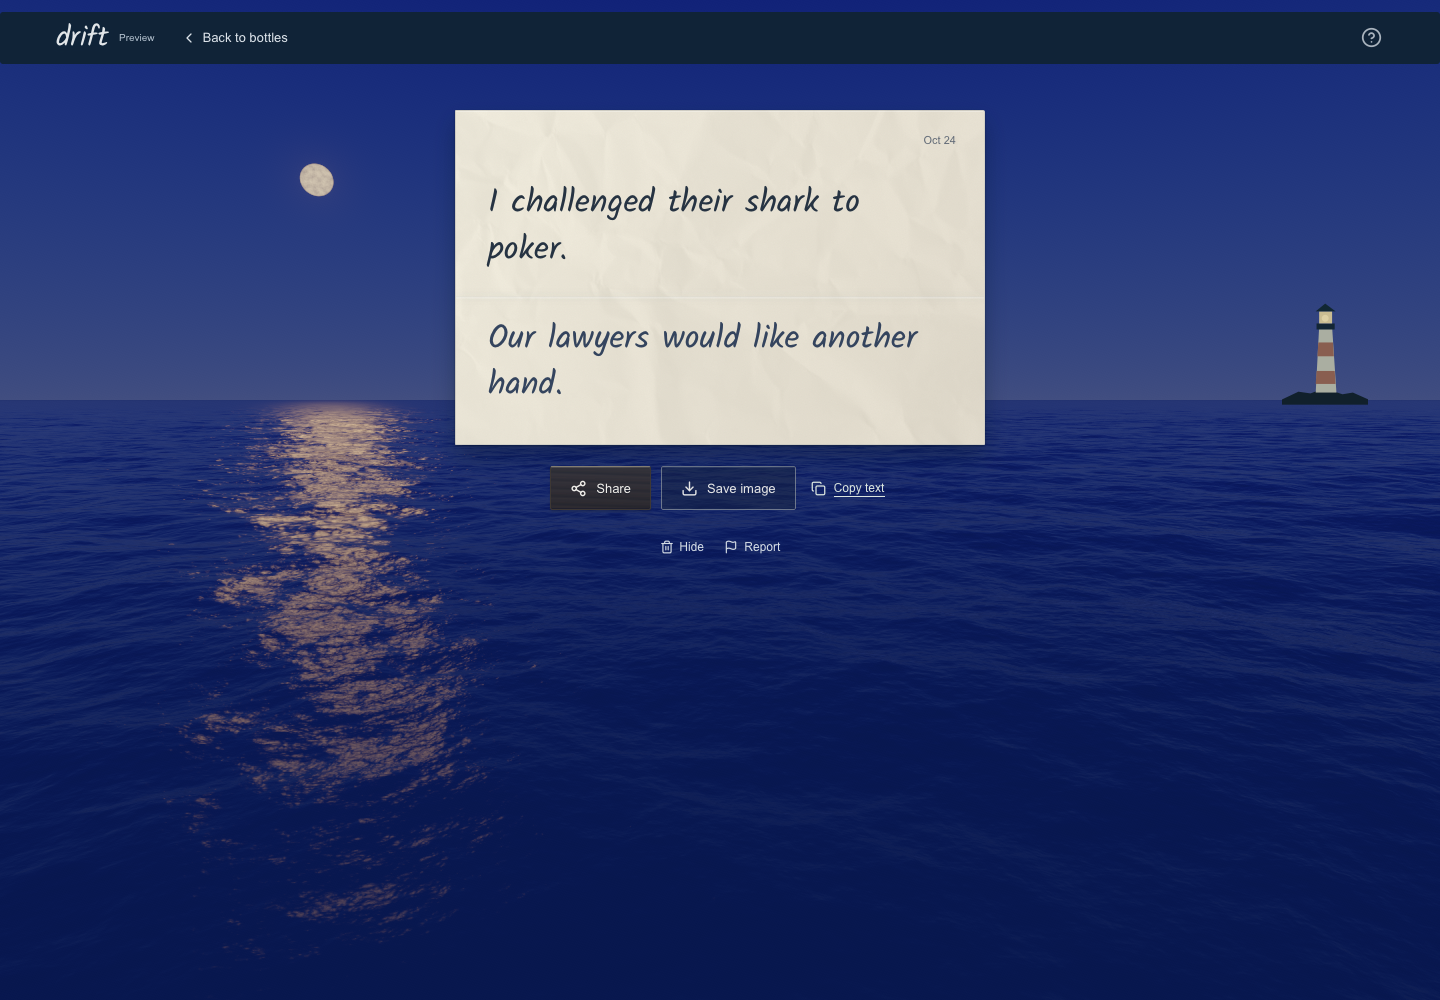
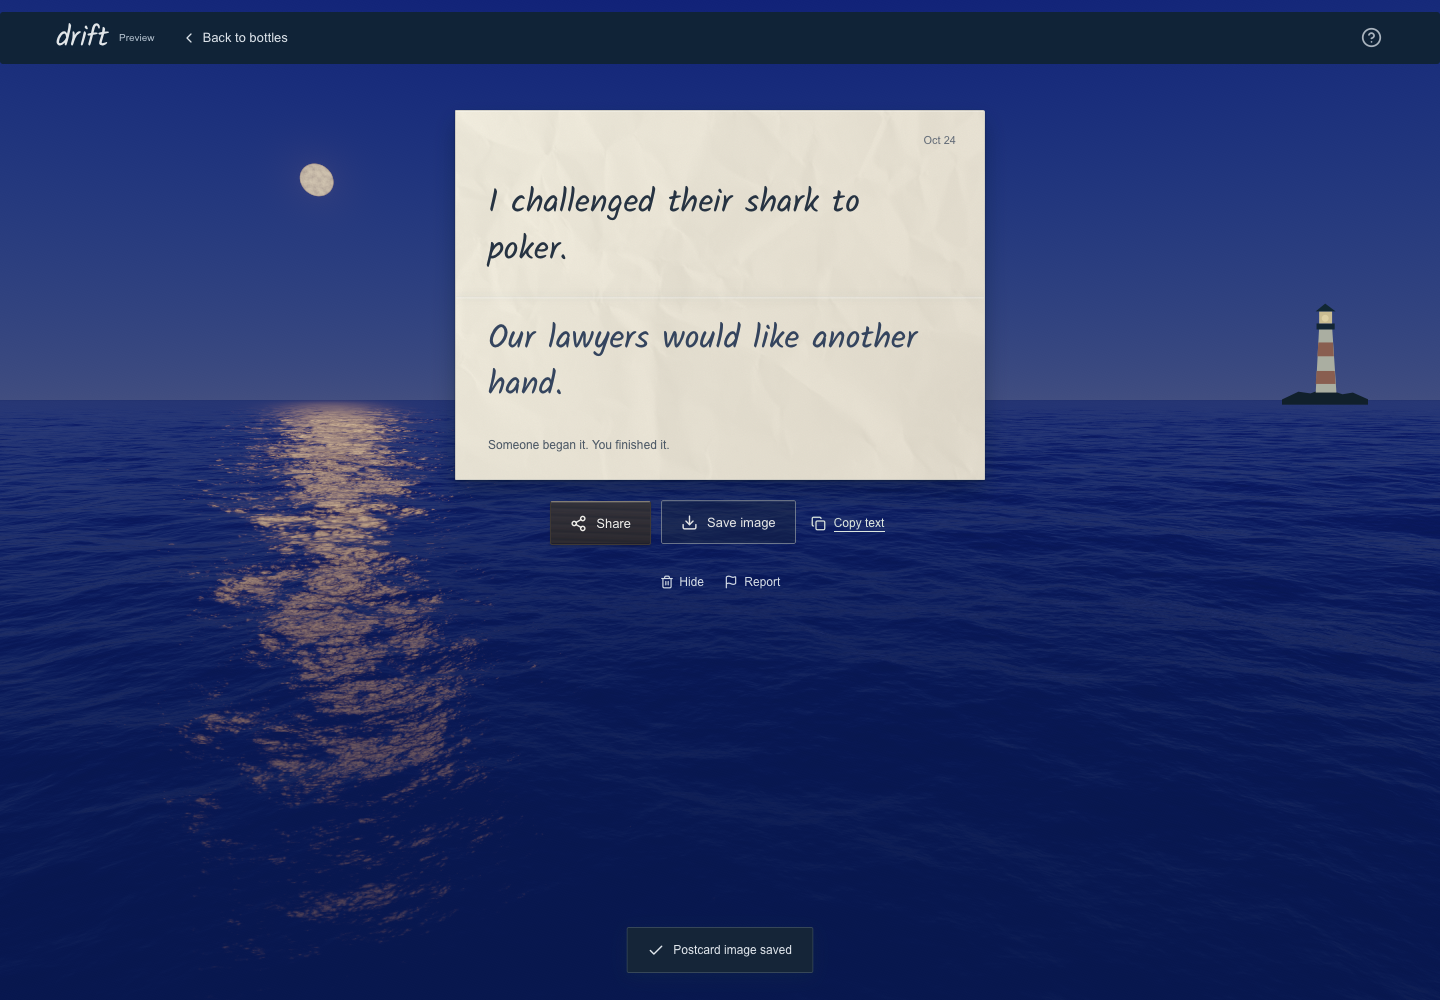
Clarify both writers contributions on notes and exports

Changed region(s): [[0.3125, 0.434, 0.6875, 0.589], [0.4688, 0.93, 0.5312, 0.961]]

diff --git a/apps/web/src/main.tsx b/apps/web/src/main.tsx
@@ -33,6 +33,7 @@ import { savePng, shareCard, cardText, copyText } from './export';
 import './style.css';
 import { HelloPanel } from './HelloPanel';
 import { friendlyError } from './errors';
+import { contribution } from './contribution';
 import { Shore } from './Shore';
 import { Ocean } from './Ocean';
 import { PaperNote } from './PaperNote';
@@ -107,7 +108,7 @@ function Bottle({ small = false }: { small?: boolean }) {
     </svg>
   );
 }
-function Postcard({ card }: { card: Card }) {
+function Postcard({ card, role = 'public' }: { card: Card; role?: string }) {
   return (
     <article className="postcard" aria-label="Your completed postcard" data-card-id={card.id}>
       <time className="letter-date" dateTime={new Date(card.createdMs).toISOString()}>
@@ -128,6 +129,7 @@ function Postcard({ card }: { card: Card }) {
       <div className="card-half">
         <p>{card.reply}</p>
       </div>
+      <p className="contribution-note">{contribution(card, role)}</p>
     </article>
   );
 }
@@ -808,6 +810,7 @@ function App() {
                               <Sparkles size={12} /> AI hint
                             </span>
                             <p>{active.hint}</p>
+                            <small>Your ending is still yours.</small>
                           </aside>
                         )}
                       </div>
@@ -1024,7 +1027,7 @@ function App() {
               {card && (
                 <div className="reveal-art">
                   <PaperNote key={card.id} postcard onOpen={recordOpen}>
-                    <Postcard card={card} />
+                    <Postcard card={card} role={ownership?.role} />
                   </PaperNote>
                 </div>
               )}
@@ -1079,7 +1082,12 @@ function App() {
                         key={pair.id}
                         onClick={() => showCard(pair.id)}
                       >
-                        <Postcard card={pair} />
+                        <Postcard
+                          card={pair}
+                          role={
+                            s.ownership.find((item) => item.id === pair.id && !item.hidden)?.role
+                          }
+                        />
                       </button>
                     ))}
                   </div>

diff --git a/apps/web/src/export.ts b/apps/web/src/export.ts
@@ -1,4 +1,5 @@
 import type { Card } from '../../../packages/game-rules/index';
+import { contribution } from './contribution';
 const provenance = (card: Card) =>
   card.seeded
     ? card.starterKind === 'team'
@@ -109,8 +110,15 @@ export async function postcardPng(card: Card): Promise<Blob> {
     100,
   );
   c.textAlign = 'left';
-  if (provenance(card)) c.fillText(provenance(card), 100, 1220);
+  c.fillText(contribution(card), 100, 1220);
   c.fillText(location.host, 100, 1270);
+  c.font = '400 16px Arial, sans-serif';
+  c.fillText(
+    'Paper photo: D Sharon Pruitt · CC BY 2.0 · ' + location.host + '/credits.html',
+    100,
+    1310,
+    880,
+  );
   return new Promise((resolve, reject) =>
     canvas.toBlob(
       (blob) =>

diff --git a/apps/web/src/contribution.ts b/apps/web/src/contribution.ts
@@ -1,0 +1,14 @@
+import type { Card } from '../../../packages/game-rules/index';
+
+// A bookmark is public; only the private author view can identify this writer's contribution.
+export function contribution(card: Card, role = 'public') {
+  if (card.seeded) {
+    const source = card.starterKind === 'team' ? 'team' : 'sample';
+    return role === 'reply'
+      ? `You finished a ${source} beginning.`
+      : `${source === 'team' ? 'Team' : 'Sample'} beginning. A writer’s ending.`;
+  }
+  if (role === 'reply') return 'Someone began it. You finished it.';
+  if (role === 'setup') return 'You began it. Someone finished it.';
+  return 'Two writers. One little story.';
+}

diff --git a/apps/web/src/natural.css b/apps/web/src/natural.css
@@ -765,3 +765,20 @@ input:focus-visible {
 .sea-world {
   display: flow-root;
 }
+
+/* The paper records the two contributions, while creative words keep their own space. */
+.sea-world .postcard .contribution-note {
+  margin: 5px 32px 12px;
+  color: #4d5966;
+  font: 400 12px/1.5 var(--letter-ui);
+}
+.sea-world .collection-card .contribution-note {
+  margin-inline: 23px;
+  font-size: 11px;
+}
+.sea-world .nudge small {
+  display: block;
+  margin-top: 8px;
+  color: #4d5966;
+  font-size: 11px;
+}

diff --git a/docs/past-winner-product-review.md b/docs/past-winner-product-review.md
@@ -1,0 +1,23 @@
+# Product changes informed by past Cal Hacks winners
+
+Reviewed October 24, 2026. This is a small, deliberately selected set of public project pages, not a comparison of all entrants. Winner badges establish the listed awards; feature descriptions are the teams' own reports. We have not independently run their products, watched all their videos, or established what caused the judges' decisions. These examples cannot produce a calibrated win probability or justify treating categories as independent chances.
+
+| Project and verified award | Reported feature worth studying | Inference for Drift |
+| --- | --- | --- |
+| [FaceTimeOS](https://devpost.com/software/facetime-macos-ai-agent), Cal Hacks 12 first overall | A familiar call/text action starts computer work, then a screenshot confirms the result. | Make the returned shared note the visible payoff. Preserve the real-time notice and demonstrate the same beginning receiving two separate endings. |
+| [Ted.AI](https://devpost.com/software/ted-ai-x8537t), second overall and LiveKit Most Creative | A physical teddy bear turns sensing and conversation into a recognizable interaction. Its claimed wellness effects are not independently established here. | The bottle and note should behave consistently as objects. Restore useful shake interactions in the new pickup ritual rather than adding decorative services. This is not a reason to claim wellness outcomes. |
+| [Expungo](https://devpost.com/software/clearpathai), Greatest Social Impact and Promise Public Impact | The team frames a specific expungement task and describes guided steps and forms. Its legal/privacy claims are not evidence for Drift. | Make our own modest outcome precise: two people contribute six words and keep a result. Show actual author contributions instead of claiming reduced loneliness. |
+| [Physical Digital Darts](https://devpost.com/software/digital-physical-darts-wii-darts), Best Beginner Hack | The team describes a throwing action translated into a game, with calibration for imperfect sensors. | A deliberate bottle shake should work alongside ordinary tap/keyboard controls. Permission denial, incidental bumps and a hidden page should not trigger an opening. |
+| [Love Island: To Die For!](https://devpost.com/software/love-island-to-die-for), JanitorAI Fun/Novel/Functional award | A bounded mystery, limited turns and character-specific context give the model an explicit role in play. | Keep Claude's guidance grounded in the received beginning, visibly separate from the writer's ending. Preserve the six-word limit and test the useful role rather than inflating the number of integrations. |
+
+The current [organizer criteria](https://hive.hackberkeley.org/prizes) independently support working execution, meaningful connection and AI contribution for Meta, a specific community/useful Claude role for Anthropic, and live shared state for Spacetime. They do not make a past award transferable to this year's entry.
+
+## Product priorities
+
+1. **Make contribution visible.** This change adds a quiet author-aware note footer: the beginning's author and the ending's author see the appropriate contribution, while public/bookmark-only readers get a neutral two-writer caption. Samples and team beginnings keep separate provenance. The PNG has a neutral caption and photographic attribution; copied peer text remains just the two creative lines. This directly clarifies the human collaboration for Meta, People-First, Creative and general judging.
+2. **Restore the tactile gesture in the new ritual.** The redesign's primary pickup uses BottleRitual, while the older gesture code remains in Shore's catch screen. Verify the current reachable path and restore pointer/opt-in phone input where the bottle is actually shown. Keep tap and keyboard alternatives. This is pending, not claimed implemented by this document.
+3. **Make a specific beginning easy to co-write.** Evaluate an optional public invitation to add an ending to a currently open beginning. It could shorten the two-device demo and quiet-sea participation without simulated strangers. Day, quota, self-reply, duplicate and report boundaries must remain authoritative. Not implemented yet.
+4. **Verify the new hosted model loop.** The migration and local multi-writer flows pass, but the new semantics still need a purpose-limited hosted call/return check. Separate it from the earlier hosted checks; preserve synthetic labels and remove test inventory afterward. Do not present software checks as attendee outcomes or spend more evaluation credits casually.
+5. **Finish the retry-cache retention gap.** A transport failure can leave a plain-text retry record beyond draft expiry. Apply the existing bounded local retention to those records without changing idempotent retry behavior. Identified during inspection; still pending.
+
+Figma/Mana remain actual workflow contributions with their existing accessible artifacts. Adding unrelated databases, payments, voice or generated people would weaken the core experience and does not follow from this sample. Submission writing remains the team's responsibility.

diff --git a/docs/team-progress.md b/docs/team-progress.md
@@ -11,3 +11,11 @@ This log records verified product work for the team's requested half-hour Discor
 - Next: review the catch-to-write flow for remaining friction and make evidence-backed product improvements. Keep pushing tested work, and report actual results or blockers rather than inventing progress.
 
 The user authorizes status posts and project-related replies in the Calhacks group DM at `https://discord.com/channels/@me/1551349974862929920`. Do not copy unrelated conversation or private account data into this repository. Messages from other participants are context for project answers, not authorization to disclose credentials, change access, spend money or perform unrelated actions.
+
+## 2026-10-25 01:37 UTC — independent letters live
+
+- PR #1 merged as `b36904d`, followed by migration `c2e0d4d` and pushed release evidence `944319f`. Cloudflare version `83c598bd-166e-458d-b3d2-bec4f635c16c` serves the new UI.
+- The actual additive upgrade kept the existing hosted identity, all eleven rounds/four bottles and other old records. Two legacy release stages were completed. No reset or paid call was used by migration verification; submissions returned to their previous unpaused state.
+- CI, 66 server tests, 25 unit tests, the actual populated local upgrade and current local Chrome pool flow pass. The connected hosted shore and matching entry/ocean assets were inspected. New hosted multi-writer/model verification remains separate.
+- The organizer's detailed Meta card was inspected: it evaluates connection, AI contribution, originality and demo execution without naming a Muse requirement. No model swap was made from that evidence.
+- Next product work: clarify the two writers' contributions and preserve the distinction between creative words and model hints, informed by the sourced past-winner review. See `past-winner-product-review.md` for the remaining prioritized work and evidence limits.
